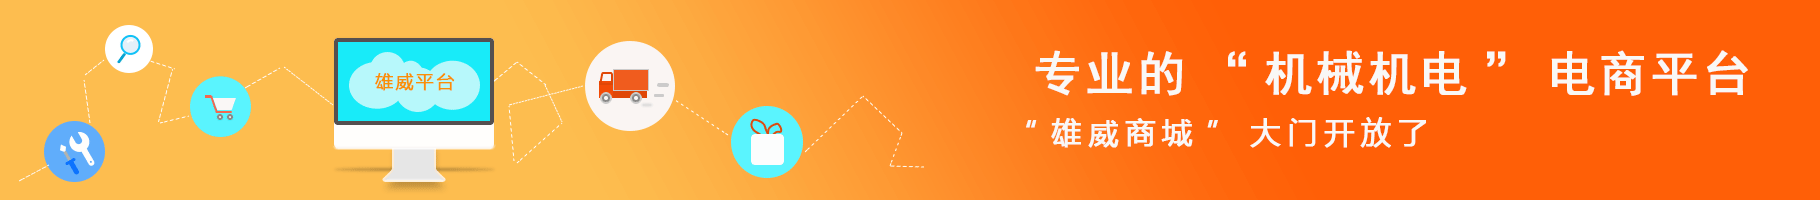
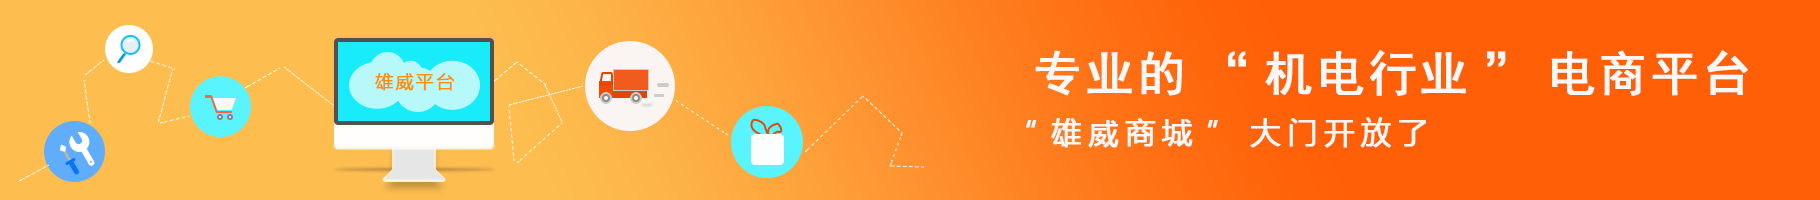
换顶部图片

Changed region(s): [[0.7077, 0.24, 0.8308, 0.48]]

diff --git a/workspace/WeiXinDemo/下拉刷新.html b/workspace/WeiXinDemo/下拉刷新.html
@@ -1,0 +1,164 @@
+<!DOCTYPE html>
+<html>
+<head>
+<meta http-equiv="Content-Type" content="text/html; charset=utf-8"/>
+    <title></title>
+	<meta charset="utf-8" />
+    <meta name="viewport" content="initial-scale=1, maximum-scale=1">
+    <link rel="shortcut icon" href="/favicon.ico">
+    <meta name="apple-mobile-web-app-capable" content="yes">
+    <meta name="apple-mobile-web-app-status-bar-style" content="black">
+
+    <link rel="stylesheet" href="http://g.alicdn.com/msui/sm/0.6.2/css/sm.min.css">
+    <link rel="stylesheet" href="http://g.alicdn.com/msui/sm/0.6.2/css/sm-extend.min.css">
+    <style>
+        .content{
+            background:#ccc;
+        }
+        li{
+            border-bottom: 1px solid;
+            height: 3rem;
+            line-height:3rem;
+            color:blue;
+        }
+    </style>
+</head>
+<body>
+
+    <div class="page-group">
+        <div class="page page-current">
+            <header class="bar bar-nav">
+                <h1 class='title'>下拉刷新</h1>
+            </header>
+            <!-- content应该拥有"pull-to-refresh-content"类,表示启用下拉刷新 -->
+            <div class="content pull-to-refresh-content infinite-scroll" data-ptr-distance="55">
+                <!-- 默认的下拉刷新层 -->
+                <div class="pull-to-refresh-layer">
+                    <div class="preloader"></div>
+                    <div class="pull-to-refresh-arrow"></div>
+                </div>
+                <!-- 下面是正文 -->
+                <div class="card-container">
+                    <div class="card">
+                        <div class="card-header">card</div>
+                        <div class="card-content">
+                            <div class="card-content-inner">
+                                这里是第1个card，下拉刷新会出现第2个card。
+                            </div>
+                        </div>
+                    </div>
+                    <div class="card">
+                        <div class="card-header">card</div>
+                        <div class="card-content">
+                            <div class="card-content-inner">
+                                这里是第1个card，下拉刷新会出现第2个card。
+                            </div>
+                        </div>
+                    </div>
+                    <div class="card">
+                        <div class="card-header">card</div>
+                        <div class="card-content">
+                            <div class="card-content-inner">
+                                这里是第1个card，下拉刷新会出现第2个card。
+                            </div>
+                        </div>
+                    </div>
+                    <div class="card">
+                        <div class="card-header">card</div>
+                        <div class="card-content">
+                            <div class="card-content-inner">
+                                这里是第1个card，下拉刷新会出现第2个card。
+                            </div>
+                        </div>
+                    </div>
+                    <div class="card">
+                        <div class="card-header">card</div>
+                        <div class="card-content">
+                            <div class="card-content-inner">
+                                这里是第1个card，下拉刷新会出现第2个card。
+                            </div>
+                        </div>
+                    </div>
+                    <div class="card">
+                        <div class="card-header">card</div>
+                        <div class="card-content">
+                            <div class="card-content-inner">
+                                这里是第1个card，下拉刷新会出现第2个card。
+                            </div>
+                        </div>
+                    </div>
+                </div>
+                <div class="scroll-ul">
+                    <ul></ul>
+                </div>
+                <!-- 加载提示符 -->
+                <div class="infinite-scroll-preloader">
+                    <div class="preloader"></div>
+                </div>
+            </div>
+
+        </div>
+    </div>
+    
+
+    <script type='text/javascript' src='http://g.alicdn.com/sj/lib/zepto/zepto.min.js' charset='utf-8'></script>
+    <script type='text/javascript' src='http://g.alicdn.com/msui/sm/0.6.2/js/sm.min.js' charset='utf-8'></script>
+    <script type='text/javascript' src='http://g.alicdn.com/msui/sm/0.6.2/js/sm-extend.min.js' charset='utf-8'></script>
+    <script>
+        $(document).on('refresh', '.pull-to-refresh-content', function (e) {
+            //console.log($(e.target).find('.card').length)
+            //js对象和jquery对象的转化就是用$()包裹对象
+            var num = 0;
+            var html = '';
+            setTimeout(function () {
+                num = $(e.target).find('.card').length;
+                html += '<div class="card">' +
+            '<div class="card-header">card</div>' +
+            '<div class="card-content">' +
+            '<div class="card-content-inner">' +
+            '这里是第' + (num + 1) + '个card，下拉刷新会出现第' + (num + 2) + '个card。' +
+            '</div>' +
+                        '</div>' +
+                    '</div>'
+                $('.card-container').prepend(html)
+                $.pullToRefreshDone('.pull-to-refresh-content');
+            }, 1000)
+        });
+        //最多只能加载total条数据
+        var total = 10;
+        //每次加载的条数
+        var iNow = 0;
+        var loading = false;
+        var i;
+        $(document).on('infinite', function (e) {
+            
+            if (loading) {
+                return;
+            }
+
+            loading = true;
+            console.log($(e.target))
+           
+            setTimeout(function () {
+                for ( i = iNow  ; i < iNow + 3; i++) {
+                    var html = '<li>无限刷新' + i + '</li>';
+                    $(".scroll-ul ul").append(html)
+                }
+                iNow = $('li').length;
+                console.log(i)
+                loading = false;
+                if (i >= total) {
+                    i = total;
+                    // 加载完毕，则注销无限加载事件，以防不必要的加载
+                    $.detachInfiniteScroll($('.infinite-scroll'));
+                    // 删除加载提示符
+                    $('.infinite-scroll-preloader').remove();
+                }
+                
+                //$.refreshScroller();
+            }, 1000)
+        })
+        $.init()
+    </script>
+</body>
+</html>

diff --git a/workspace/WeiXinDemo/路由.html b/workspace/WeiXinDemo/路由.html
@@ -1,0 +1,51 @@
+<!DOCTYPE html>
+<html>
+<head>
+    <meta http-equiv="Content-Type" content="text/html; charset=utf-8" />
+    <title></title>
+    <meta charset="utf-8" />
+    <meta name="viewport" content="initial-scale=1, maximum-scale=1">
+    <link rel="shortcut icon" href="/favicon.ico">
+    <meta name="apple-mobile-web-app-capable" content="yes">
+    <meta name="apple-mobile-web-app-status-bar-style" content="black">
+
+    <link rel="stylesheet" href="http://g.alicdn.com/msui/sm/0.6.2/css/sm.min.css">
+    <link rel="stylesheet" href="http://g.alicdn.com/msui/sm/0.6.2/css/sm-extend.min.css">
+</head>
+<body>
+    <div class="page page-group">
+        <div class="page page-current" id='router'>
+            <header class="bar bar-nav">
+                <h1 class='title'>路由</h1>
+            </header>
+            <div class="content">
+                <div class="content-block">
+                    <ul>
+                        <li><a href="/docs-demos/router2">ajax加载新页面</a></li>
+                        <li><a href="#router3">内联的新页面</a></li>
+                    </ul>
+                </div>
+            </div>
+        </div>
+
+        <div class="page" id='router3'>
+            <header class="bar bar-nav">
+                <a class="button button-link button-nav pull-left back" href="/docs-demos/router">
+                    <span class="icon icon-left"></span>
+                    返回
+                </a>
+                <h1 class='title'>路由</h1>
+            </header>
+            <div class="content">
+                <div class="content-block">
+                    这是内联编写的页面，点击左上角的 <a href="#" class='back'>返回</a> 按钮返回上一页。
+                </div>
+            </div>
+        </div>
+    </div>
+
+    <script type='text/javascript' src='http://g.alicdn.com/sj/lib/zepto/zepto.min.js' charset='utf-8'></script>
+    <script type='text/javascript' src='http://g.alicdn.com/msui/sm/0.6.2/js/sm.min.js' charset='utf-8'></script>
+    <script type='text/javascript' src='http://g.alicdn.com/msui/sm/0.6.2/js/sm-extend.min.js' charset='utf-8'></script>
+</body>
+</html>

diff --git a/workspace/PCshop/css/index.css b/workspace/PCshop/css/index.css
@@ -262,7 +262,7 @@
     width:1200px;
     margin:0 auto;
     height:100px;
-    background-color:red;
+    /*background-color:red;*/
     margin-top:10px;
 }
 .top-ad a img{
